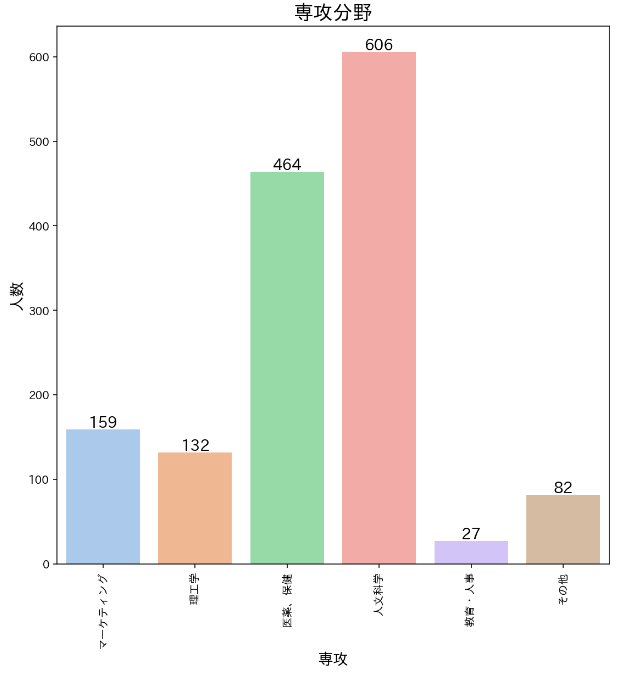
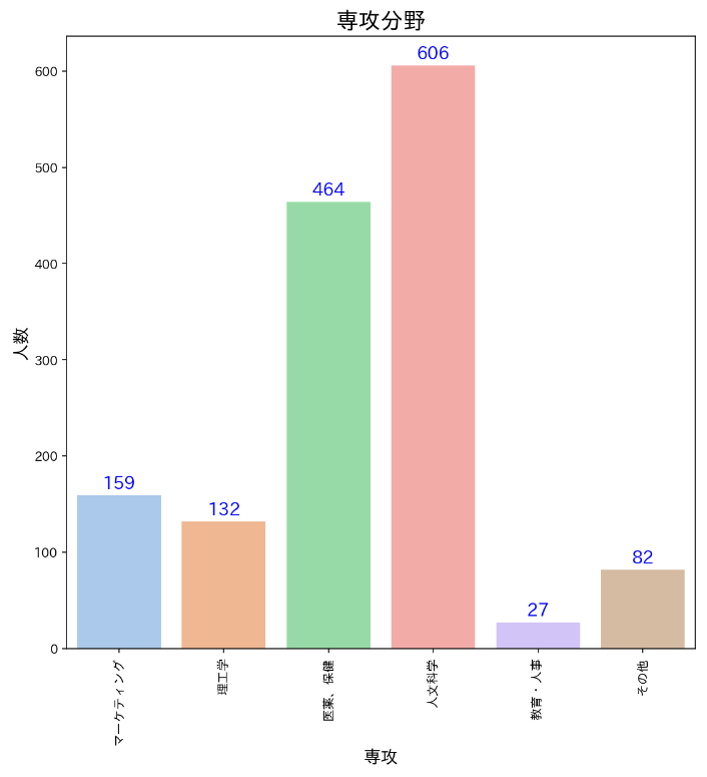
0628

diff --git a/_posts/2022-06-10-seaborn_countplot_annotation.md b/_posts/2022-06-10-seaborn_countplot_annotation.md
@@ -1,6 +1,6 @@
 ---
 layout: post
-title: seaborn countplot の棒グラフに度数のAnnotationをつける
+title: seaborn countplot の棒グラフに度数のannotationをつける
 feature-img: "assets/img/2020_08_15/flowers-7217498_1280.jpg"
 tags: [seaborn, visualization, Python]
 excerpt_separator: <!--more-->
@@ -8,14 +8,14 @@ excerpt_separator: <!--more-->
 
 [seaborn](https://seaborn.pydata.org){:target="_blank"}は[matplotlib](https://matplotlib.org){:target="_blank"}をベースにしたデータビジュアライゼーションライブラリです。countplot はカテゴリカルデータを集計から度数分布図までを一気に行なってくれる大変便利なツールです。
 
-今までも本サイトでも何度か、データビジュアライゼーションのサンプルとしてcode を紹介してきましたが、今回はannotation のつけ方について解説します。Excelの代わりにseanborn でサクサク、グラフ化の参考にしてください。
+今までも本サイトでも何度か、データビジュアライゼーションのサンプルとしてcode を紹介してきましたが、今回は度数分布を作成する`countplt` での `annotation（度数）` のつけ方について解説します。Excelの代わりにseanborn でサクサク、グラフ化の参考にしてください。
 
 <!--more-->
 
 ### サンプルデータセット
 
 日本語化した度数分布表を作成するため、
-[サンプルデータセット](https://www.so-wi.com/2019/06/01/reference_data.html){:target="_blank"}で紹介しているデータセット3 のHRデータを編集して使っています。HRデータのうち、`Age`,	`EducationField`,	`TotalWorkingYears`の列をそれぞれ、年齢、専攻、勤続年数と書き換えました。　さらに、`EducationField`で含まれるカテゴリカルデータを日本語にしています。
+[サンプルデータセット](https://www.so-wi.com/2019/06/01/reference_data.html){:target="_blank"}で紹介しているデータセット3 のHRデータを編集して使っています。HRデータのうち、`Age`,	`EducationField`,	`TotalWorkingYears`　`MonthlyIncome` の列をそれぞれ、「年齢」、「専攻」、「勤続年数」、「月収」と書き換えました。　さらに、`EducationField`で含まれるカテゴリカルデータを日本語にしています。
 
 ![sample_dataframe]({{ "assets/img/2020_08_15/seaborn_pic1.png" | relative_url}})<br>
 
@@ -71,15 +71,26 @@ plt.xlabel(col_name, fontsize = 14, fontweight='bold')
 plt.ylabel(y_label, fontsize = 14, fontweight='bold')
 
 #Annotation を設定する
-for rect in ax.patches:
-    ax.text (rect.get_x() + rect.get_width() / 2,
-             rect.get_height() + 2,
-             rect.get_height(),horizontalalignment='center', 
-             fontsize = 14)
+for p in ax.patches:
+    ax.annotate(format(p.get_height(), '.0f'), 
+                   (p.get_x() + p.get_width() / 2., 
+                    p.get_height()), 
+                    ha = 'center', 
+                    va = 'center', 
+                    xytext = (0, 9), 
+                    textcoords = 'offset points',
+                    fontsize = 14,
+                    color = 'blue')
 
 {% endhighlight %}
 
+### 小数点何位までの表示とするかの指定
 
+数字表記の肝心な点として小数点何位まで表記するかだと思います。　度数ですので、この表では整数＝小数点は無いようにコントロールしています。　その指定は以下の`format( '0f')`{:style="background: #cbe8f5"}の部分がそれに相当します。 
+<dl>
+    <dt>format(p.get_height(), '.0f'</dt>
+    <dd>値pの小数点以下何位まで表記かを指定する　.0f = 小数点は無い</dd>
+</dl>
 
 ### 度数分布図、大きい順
 
@@ -94,7 +105,7 @@ line 26　で　`order = df[col_name].value_counts().index`{:style="background: 
 
 ![度数分布図]({{ "assets/img/2020_08_15/seaborn_pic3.png" | relative_url}})<br>
 
-line 10 に注目してください。
+<strong>line 10</strong>に注目してください。
 
 {% highlight python linenos %}
 order = ['マーケティング', '理工学', '医薬、保健','人文科学','教育・人事','その他']
@@ -113,11 +124,17 @@ plt.xticks(rotation=90)
 plt.xlabel(col_name, fontsize = 14, fontweight='bold')
 plt.ylabel(y_label, fontsize = 14, fontweight='bold')
 
-for rect in ax.patches:
-    ax.text (rect.get_x() + rect.get_width() / 2,
-             rect.get_height() + 2,
-             rect.get_height(),horizontalalignment='center', 
-             fontsize = 14)
+#Annotation を設定する
+for p in ax.patches:
+    ax.annotate(format(p.get_height(), '.0f'), 
+                   (p.get_x() + p.get_width() / 2., 
+                    p.get_height()), 
+                    ha = 'center', 
+                    va = 'center', 
+                    xytext = (0, 9), 
+                    textcoords = 'offset points',
+                    fontsize = 14,
+                    color = 'blue')
 {% endhighlight %}
 
 
